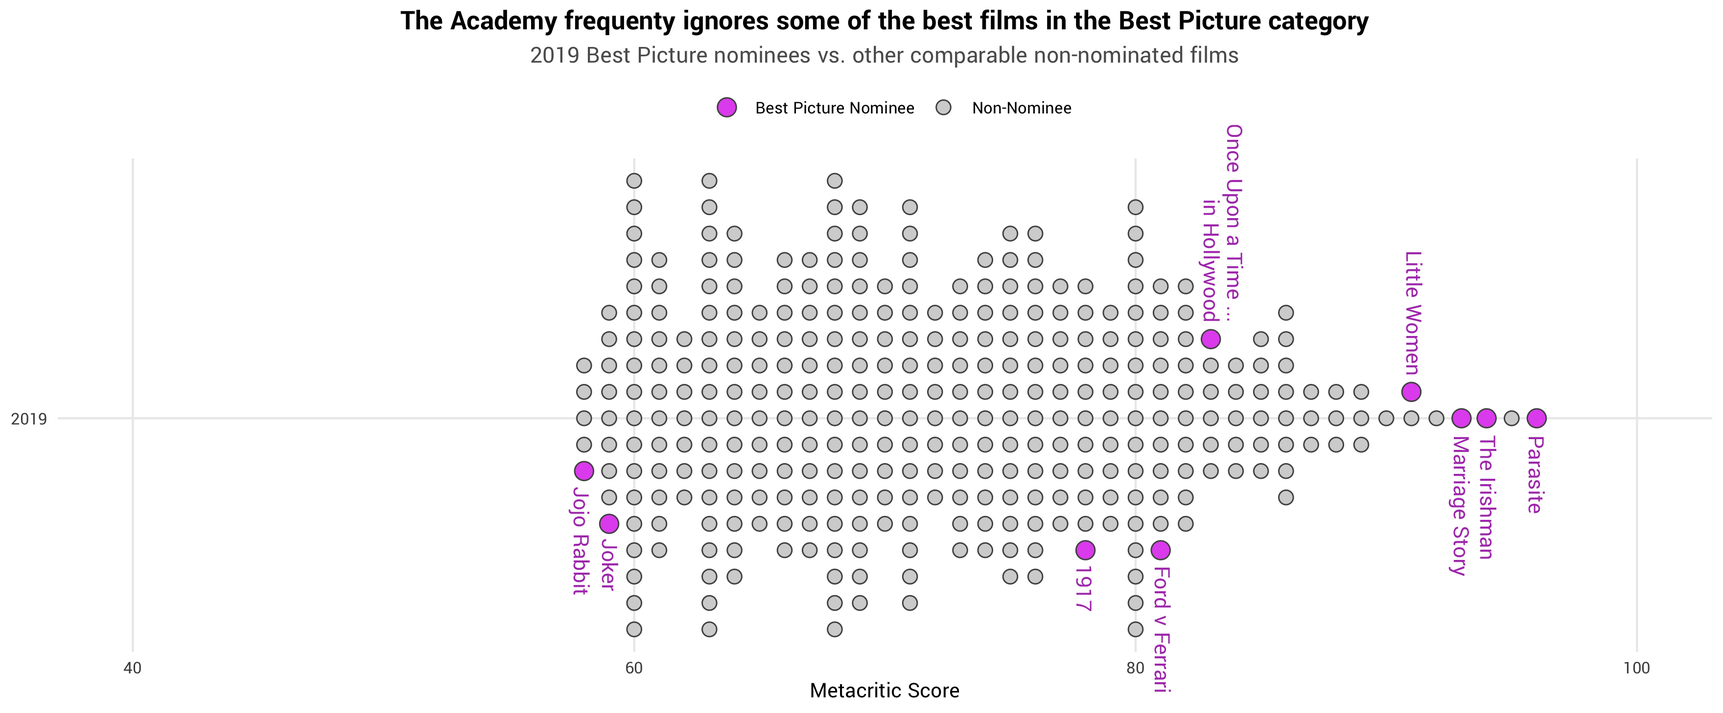
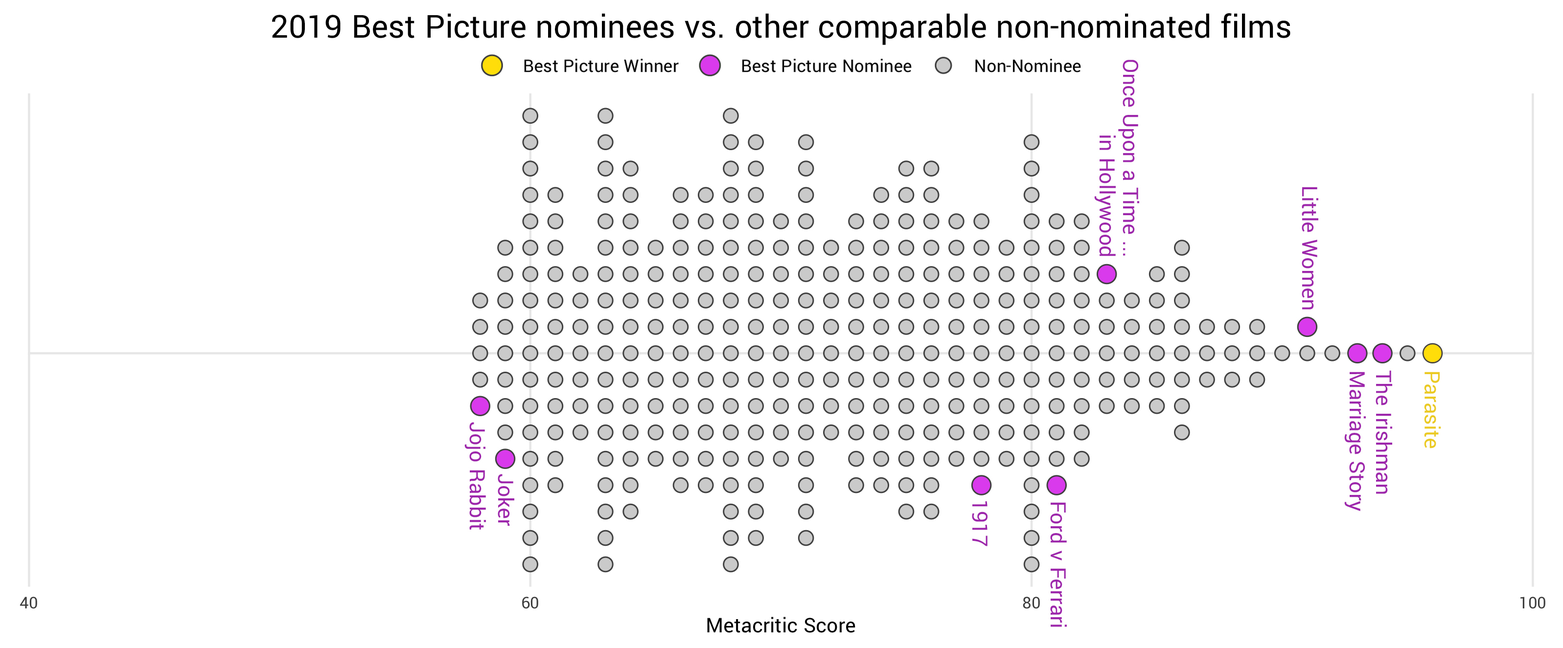
finished oscars-best-picture post

diff --git a/_site/blog/2020/02/10/oscars-best-picture.html b/_site/blog/2020/02/10/oscars-best-picture.html
@@ -146,11 +146,21 @@ MathJax.Hub.Config({
 
     <header class="post-header">
         <h1>The Best Films That Don't Win Best Picture</h1>
-        <p class="post-date">Feb 09 2020
+        <p class="post-date">Feb 10 2020
     </header>
 
     <article class="post-content">
-    <p>Lorem ipsum dolor sit amet, consectetur adipisicing elit. In dicta magnam ullam, repellat, asperiores, rem commodi tempore expedita mollitia impedit consequuntur saepe quod alias nesciunt dignissimos inventore excepturi suscipit blanditiis?</p>
+    <p>On Sunday, <em>Parasite</em> made history as the first foreign language film to win the highly coveted Best Picture award at this year’s Academy Awards. The film is a magnificent achievement and was, in my opinion, the right choice. However, in the weeks leading up to the ceremony, it was highly speculated that <em>Parasite</em> would lose to <a href="https://www.nytimes.com/2020/02/06/movies/oscars-2020-nominations-predictions.html">1917</a>, even though <a href="https://www.cnet.com/news/oscars-2020-predictions-1917-parasite-joker-once-upon-a-time-in-hollywood/">most critics believed</a> <em>Parasite</em> was the superior movie. All of this was also coming a year after <a href="https://www.vox.com/culture/2019/2/25/18239309/oscars-2019-green-book-best-picture"><em>Green Book</em> won</a> over (believed to be) superior films like <em>Roma</em>, <em>The Favourite</em>, and <em>BlackKlansman</em>. Needless to say, before <em>Parasite</em> actually won, there were low hopes that the Academy would make the best choice.</p>
+
+<div class="columns two">
+    <div class="column">
+        <p>Beyond the discussion of which Best Picture nominee was most deserving of the prize, many have pointed out that the Academy’s shortlist of films did not even include some of the best films of the year. Films like <i>Uncut Gems</i>, <i>The Farewell</i>, and <i>Dolemite Is My Name</i> were all <a href="https://ew.com/oscars/2020/01/13/oscar-nominations-2020-snubs-surprises/">notoriously snubbed this year</a>, though this has become somewhat of the norm at the Oscars.</p>
+        <p>In an attempt to quantify all of this and mentally prepare myself for what I expected was going to be a loss for <i>Parasite</i>, midway through the Awards, I <a href="https://twitter.com/ben_tanen/status/1226683722277191680">tweeted a series of charts</a> showing the Best Picture nominees from the past few years stacked up against other comparable non-nominated films. These showed how many great films the Academy had overlooked when they made their nominations and how the eventual winners compared to those overlooked films. Though never perfect, it was clear that the Academy does a better job in some years than others. In 2016, though some of the nominees were worse than other non-nominated films, <i>Moonlight</i> was considered the best of the best and won the prize to prove it. On the other hand, in 2018, nominees like <i>Bohemian Rhapsody</i> and <i>Vice</i> were far inferior to many, many other non-nominees, which was only made worse by the fact that <i>Green Book</i> was generally considered one of the worst nominees that year.</p>
+    </div>
+    <div class="column">
+        <blockquote class="twitter-tweet"><p lang="en" dir="ltr">The Academy frequently ignores some of the best films when they nominate and award films for Best Picture. Tonight they have the chance to get it right by picking one of the best films of the year. Let’s see what happens…<br /><br />More in-depth analysis coming soon.<br /><br /><a href="https://twitter.com/hashtag/Oscars?src=hash&amp;ref_src=twsrc%5Etfw">#Oscars</a> <a href="https://twitter.com/hashtag/Oscars2020?src=hash&amp;ref_src=twsrc%5Etfw">#Oscars2020</a><br /><a href="https://t.co/fLGXAcrSTZ">pic.twitter.com/fLGXAcrSTZ</a></p>&mdash; Ben Tanen (@ben_tanen) <a href="https://twitter.com/ben_tanen/status/1226683722277191680?ref_src=twsrc%5Etfw">February 10, 2020</a></blockquote> <script async="" src="https://platform.twitter.com/widgets.js" charset="utf-8"></script>
+    </div>
+</div>
 
 <p class="fig-paragraph">
     <a class="fig-link" href="/assets/img/posts/oscars-best-picture-2019.jpg" target="_blank">
@@ -158,7 +168,7 @@ MathJax.Hub.Config({
     </a>
 </p>
 
-<p>Lorem ipsum dolor sit amet, consectetur adipisicing elit. Facilis assumenda asperiores modi deserunt eaque quis saepe delectus. Asperiores, earum qui? Non deleniti ut eum dolorem quam fuga quia laboriosam magni?</p>
+<p>Now that we have the benefit of knowing who won Best Picture, this year’s Best Picture category looked a bit like a mix of 2016 and 2018 - the best film won the big prize but many great films weren’t nominated. Most people can now rest easy knowing a worthy movie won but it’s worth remembering all those great movies that did not get the recognition they deserved, this year and in years past. For those curious, see below for a full breakdown of the Best Picture nominees and other (often better) non-nominated films from the past 20 years as well as a few of my top (mildly data-driven, mildly personal) picks. See you all again in 11 months when the rage cycle starts all over again!</p>
 
 <div id="d3-obp-container">
     <div id="d3-obp-title">
@@ -168,7 +178,19 @@ MathJax.Hub.Config({
     </svg>
 </div>
 
-<p>Lorem ipsum dolor sit amet, consectetur adipisicing elit. Deserunt, ut. Reiciendis fugiat reprehenderit illum eveniet at dolorem blanditiis, nesciunt ipsam praesentium, consequuntur eligendi ducimus ex corrupti ullam incidunt sunt labore!</p>
+<h3 style="padding-left: 30px; margin-bottom: 5px; color: #77bdee;">BT's Picks: Great Films Not Nominated for Best Picture</h3>
+
+<ul>
+  <li>2019: <em>Uncut Gems</em>, <em>The Farewell</em>, <em>Dolemite Is My Name</em></li>
+  <li>2018: <em>Eighth Grade</em>, <em>Minding the Gap</em></li>
+  <li>2017: <em>The Florida Project</em></li>
+  <li>2013: <em>Fruitvale Station</em></li>
+  <li>2012: <em>Moonrise Kingdom</em></li>
+  <li>2008: <em>WALL-E</em></li>
+  <li>2007: <em>The King of Kong: A Fistful of Quarters</em></li>
+  <li>2006: <em>Children of Men</em>, <em>Borat</em></li>
+  <li>2002: <em>Spirited Away</em>, <em>Adaptation.</em></li>
+</ul>
 
 <p class="section-break">* * *</p>
 
@@ -179,7 +201,19 @@ MathJax.Hub.Config({
     <p></p>
     
     <p>
-Lorem ipsum dolor sit amet, consectetur adipisicing elit. Id, sapiente, dolores. Sunt suscipit quia, quisquam earum ipsa adipisci illo eos. Harum ex ipsum, aperiam quaerat dolorum est debitis laboriosam nulla.</p>
+Best Picture nominees were taken from <a href="http://awardsdatabase.oscars.org/">the Official Academy Awards Database</a> and then matched to their respective titles on <a href="https://www.metacritic.com/">Metacritic</a>. All films that were ranked higher than the lowest scoring Best Picture nominee (based on <a href="https://www.metacritic.com/browse/movies/score/metascore/year/filtered?year_selected=2019&amp;sort=desc">Metacritic's Best Movies By Year list</a>) were included.</p>
+    
+    <p>
+</p>
+    
+    <p>
+Some films on Metacritic's list likely did not qualify for Best Picture nominations (e.g., <i>Apocalypse Now: Final Cut</i>, an extended version of the 1979 film, was released in 2019 but likely would not qualify). However, the Academy's qualifications have changed over time and <a href="https://www.liveabout.com/qualifying-for-best-picture-oscar-4071766">generally require information submitted by studios directly to the Academy</a>, which can be difficult to find online. Therefore, for the sake of completeness, all films listed on Metacritic were included.</p>
+    
+    <p>
+</p>
+    
+    <p>
+The film's year indicates the year of release, not the year of the Oscars ceremony associated with the film.</p>
     
     <p>
 </p>
@@ -222,12 +256,16 @@ line.y-axis-line {
     stroke: none;
 }
 
+text.legend {
+    font-size: 12px;
+}
+
 text.stat-line1, text.stat-line2 tspan {
     font-size: 12px;
 }
 
 circle.film {
-    stroke: #515151;
+    stroke: #C3C3C3;
     stroke-width: 1.5px;
     fill: #D4D4D4;
     cursor: pointer;
@@ -235,16 +273,18 @@ circle.film {
 
 @media (max-width: 840px) {
     circle.film {
-        stroke-width: 1px;
+        stroke-width: 0.5px;
     }
 }
 
 circle.film.oscars-nom {
-    fill: #E35DEF; 
+    fill: #E35DEF;
+    stroke: #515151;
 }
 
 circle.film.oscars-win {
     fill: #FFDD0A;
+    stroke: #515151;
 }
 </style>
 
@@ -256,7 +296,7 @@ circle.film.oscars-win {
 
 let obp_svg = d3.select("#d3-obp");
 
-let margin = {top: 150, right: 105, bottom: 70, left: 40},
+let margin = {top: 180, right: 105, bottom: 65, left: 40},
     width  = $("#d3-obp").width() - margin.left - margin.right,
     height = $("#d3-obp").height() - margin.top - margin.bottom,
     is_mobile = (width >= 470 ? false : true);
@@ -298,7 +338,9 @@ function render_axes() {
         .attr("y1", (d) => margin.top + y(d) + 0.5)
         .attr("x2", margin.left + width)
         .attr("y2", (d) => margin.top + y(d) + 0.5);
+}
 
+function render_statlines() {
     let sl1 = obp_svg.selectAll("text.stat-line1")
         .data(d3.range(y.domain()[0], y.domain()[1] + 1)).enter()
         .append("text")
@@ -328,10 +370,61 @@ function render_axes() {
         .attr("dy", 12);
 }
 
+function render_legend() {
+
+    let mob = width < 250,
+        legend_width = mob ? 221 : 337;
+
+    let legend = obp_svg.append("g")
+        .classed("legend", true)
+        .attr("transform", `translate(${margin.left + (width - legend_width) / 2}, 10)`);
+
+    legend.append("circle")
+        .classed("film", true)
+        .classed("oscars-win", true)
+        .classed("legend", true)
+        .attr("cx", 10)
+        .attr("cy", 10)
+        .attr("r", 4);
+
+    legend.append("text")
+        .classed("legend", true)
+        .attr("x", 20)
+        .attr("y", 14)
+        .text((mob ? "" : "Best Picture ") + "Winner");
+
+    legend.append("circle")
+        .classed("film", true)
+        .classed("oscars-nom", true)
+        .classed("legend", true)
+        .attr("cx", (mob ? 72 : 135))
+        .attr("cy", 10)
+        .attr("r", 4);
+
+    legend.append("text")
+        .classed("legend", true)
+        .attr("x", (mob ? 82 : 145))
+        .attr("y", 14)
+        .text((mob ? "" : "Best Picture ") + "Nominee");
+
+    legend.append("circle")
+        .classed("film", true)
+        .classed("legend", true)
+        .attr("cx", (mob ? 144 : 270))
+        .attr("cy", 10)
+        .attr("r", 4);
+
+    legend.append("text")
+        .classed("legend", true)
+        .attr("x", (mob ? 154 : 280))
+        .attr("y", 14)
+        .text("Non-Nominee");
+}
+
 function render_points() {
 
     // create circles
-    obp_svg.selectAll("circle.film")
+    obp_svg.selectAll("circle.film:not(.legend)")
         .data(data).enter()
         .append("circle")
         .classed("film", true)
@@ -366,7 +459,7 @@ function y_jitter(r) {
 function resize() {
 
     // delete existing elements
-    obp_svg.selectAll("#x-axis, #y-axis, text.axis-label, line.y-axis-line, text.stat-line1, text.stat-line2, circle.film").remove();
+    obp_svg.selectAll("#x-axis, #y-axis, text.axis-label, line.y-axis-line, g.legend, text.stat-line1, text.stat-line2, circle.film").remove();
 
     // update width properties and scales
     width = $("#d3-obp").width() - margin.left - margin.right;
@@ -374,6 +467,8 @@ function resize() {
 
     // rerender
     render_axes();
+    render_statlines();
+    render_legend();
     render_points();
 }
 
@@ -402,8 +497,10 @@ d3.csv("/assets/data/metacritic-topmovies-byyear.csv", (d) => {
     x.domain(d3.extent(data, (d) => d.metacritic_score)).nice();
     y.domain(d3.extent(data, (d) => d.year));
 
-    // draw axes and initla points
+    // draw axes and initial points
     render_axes();
+    render_statlines();
+    render_legend();
     render_points();
 });
 

diff --git a/_site/index.html b/_site/index.html
@@ -79,7 +79,7 @@
 
 <p>I’m Ben Tanen. I have a passion for thinking about, working with, and visualizing data of all forms, and I aspire to use data to tell interesting stories. I live in Boston, MA and I've worked at Analysis Group since graduating from Tufts University in 2017.</p>
 
-<p>Over the years, I've worked on projects dealing with <a href="/projects/how-bills-die/" target="_new">our broken legislative process</a>, <a href="/projects/oscars-popular-film/" target="_new">popular movies at the Oscars</a>, <a href="/blog/2018/02/06/fantasy-olympics.html" target="_new">the Winter Olympics</a>, <a href="/blog/2019/06/23/most-font.html" target="_new">font design</a>, <a href="/blog/2017/03/15/ASL-LEX.html" target="_new">American Sign Language</a>, <a href="http://link.ben-tanen.com/adaptive-huffman/" target="_new">data compression algorithms</a>, and <a href="/blog/2020/01/08/ibm-watson-ff.html" target="_new">fantasy football</a>. Recently, I wrote about <a href="/blog/2020/02/09/oscars-best-picture.html">how many great films can be ignored by the Academy of Motion Picture Arts and Sciences</a>. You can find more of my work <a href="/blog/all/">here</a>.</p>
+<p>Over the years, I've worked on projects dealing with <a href="/projects/how-bills-die/" target="_new">our broken legislative process</a>, <a href="/projects/oscars-popular-film/" target="_new">popular movies at the Oscars</a>, <a href="/blog/2018/02/06/fantasy-olympics.html" target="_new">the Winter Olympics</a>, <a href="/blog/2019/06/23/most-font.html" target="_new">font design</a>, <a href="/blog/2017/03/15/ASL-LEX.html" target="_new">American Sign Language</a>, <a href="http://link.ben-tanen.com/adaptive-huffman/" target="_new">data compression algorithms</a>, and <a href="/blog/2020/01/08/ibm-watson-ff.html" target="_new">fantasy football</a>. Recently, I wrote about <a href="/blog/2020/02/10/oscars-best-picture.html">how many great films are ignored by the Academy Awards</a>. You can find more of my work <a href="/blog/all/">here</a>.</p>
 
 <p>I'm always looking for great music to add to <a href="http://link.ben-tanen.com/vinyl/">my collection</a> and I love chatting about filmmaking, law, and politics. While at Tufts, I spun a weekly <a href="http://link.ben-tanen.com/papaT/">radio show</a> as Papa T on Tufts' WMFO and I played club hockey. On occasion, I take <a href="http://link.ben-tanen.com/photo/">pictures</a> with my camera. <span id="currently-text">I'm currently listening to <a class="currently hidden" id="currently-music-name" target="_new">...............</a> from <span class="currently" id="currently-music-artist">...............</span> and I'm reading <a class="currently hidden" id="currently-book-name" target="_new">...............</a> by <span class="currently hidden" id="currently-book-author">...............</span>.</span></p>
 

diff --git a/_site/blog/all/index.html b/_site/blog/all/index.html
@@ -157,8 +157,8 @@ MathJax.Hub.Config({
     <li>
         <div class='index-thumbnail' style='background-image: url("/assets/img/post-thumbnails/oscars-best-picture.png");'>
         </div>
-        <p class='index-date'>Feb 09 2020</p>
-        <p class='index-title'><a href='/blog/2020/02/09/oscars-best-picture.html'>The Best Films That Don't Win Best Picture</a></p>
+        <p class='index-date'>Feb 10 2020</p>
+        <p class='index-title'><a href='/blog/2020/02/10/oscars-best-picture.html'>The Best Films That Don't Win Best Picture</a></p>
     </li>
 
 

diff --git a/_site/projects/data/index.html b/_site/projects/data/index.html
@@ -153,8 +153,8 @@ MathJax.Hub.Config({
     <li>
         <div class='index-thumbnail' style='background-image: url("/assets/img/post-thumbnails/oscars-best-picture.png");'>
         </div>
-        <p class='index-date'>Feb 09 2020</p>
-        <p class='index-title'><a href='/blog/2020/02/09/oscars-best-picture.html'>The Best Films That Don't Win Best Picture</a></p>
+        <p class='index-date'>Feb 10 2020</p>
+        <p class='index-title'><a href='/blog/2020/02/10/oscars-best-picture.html'>The Best Films That Don't Win Best Picture</a></p>
     </li>
 
 

diff --git a/_site/blog/2020/01/08/ibm-watson-ff.html b/_site/blog/2020/01/08/ibm-watson-ff.html
@@ -444,7 +444,7 @@ $('.bucket-button').click(function() {
 
     <div class='pagination'>
         
-        <p id='pagination-previous'><a href='/blog/2020/02/09/oscars-best-picture.html'>&#8592; Newer Post</a></p>
+        <p id='pagination-previous'><a href='/blog/2020/02/10/oscars-best-picture.html'>&#8592; Newer Post</a></p>
         
 
         <p id="pagination-all"><a href="/blog/all/">View All Posts</a></p>

diff --git a/_drafts/2020-02-10-oscars-best-picture.md b/_drafts/2020-02-10-oscars-best-picture.md
@@ -1,29 +1,38 @@
 ---
 layout: post
 title:  "The Best Films That Don't Win Best Picture"
-date:   2020-02-09 15:05:41
+date:   2020-02-10 15:05:41
 categories: project data visualization movies oscars
 show-on-landing: true
 thumbnail: /assets/img/post-thumbnails/oscars-best-picture.png
-landing-description: how many great films can be ignored by the Academy of Motion Picture Arts and Sciences
+landing-description: how many great films are ignored by the Academy Awards
 ---
 
-This past Sunday, [*Parasite*](https://www.imdb.com/title/tt6751668/) made history as the first foreign language film to win the highly coveted Best Picture award at this year’s Academy Awards. The film is a magnificent achievement and was, in my opinion, the right choice. However, in the weeks leading up to the ceremony, it was highly speculated that *Parasite* would lose to [1917](https://www.nytimes.com/2020/02/06/movies/oscars-2020-nominations-predictions.html), even though [most critics believed](https://www.cnet.com/news/oscars-2020-predictions-1917-parasite-joker-once-upon-a-time-in-hollywood/) *Parasite* was the superior movie. All of this was also coming a year after [*Green Book* won](https://www.vox.com/culture/2019/2/25/18239309/oscars-2019-green-book-best-picture) over (believed to be) superior films like *Roma*, *The Favourite*, and *BlackKlansman*. Needless to say, before *Parasite* actually won, there were low hopes that the Academy would make the best choice.
-
-Beyond the discussion of which Best Picture nominee was most deserving of the prize, many have pointed out that the Academy’s shortlist of films did not even include some of the best films of the year. Films like *Uncut Gems*, *The Farewell*, and *Dolemite Is My Name* were all [notoriously snubbed this year](https://ew.com/oscars/2020/01/13/oscar-nominations-2020-snubs-surprises/), though this has become somewhat of the norm at the Oscars.
+On Sunday, *Parasite* made history as the first foreign language film to win the highly coveted Best Picture award at this year’s Academy Awards. The film is a magnificent achievement and was, in my opinion, the right choice. However, in the weeks leading up to the ceremony, it was highly speculated that *Parasite* would lose to [1917](https://www.nytimes.com/2020/02/06/movies/oscars-2020-nominations-predictions.html), even though [most critics believed](https://www.cnet.com/news/oscars-2020-predictions-1917-parasite-joker-once-upon-a-time-in-hollywood/) *Parasite* was the superior movie. All of this was also coming a year after [*Green Book* won](https://www.vox.com/culture/2019/2/25/18239309/oscars-2019-green-book-best-picture) over (believed to be) superior films like *Roma*, *The Favourite*, and *BlackKlansman*. Needless to say, before *Parasite* actually won, there were low hopes that the Academy would make the best choice.
 
 <div class='columns two'>
     <div class='column'>
-        <p>In an attempt to quantify all of this and mentally prepare myself for what I expected was going to be a loss for <i>Parasite</i>, I <a href="https://twitter.com/ben_tanen/status/1226683722277191680">tweeted a series of charts</a> showing the Best Picture nominees from the past few years stacked up against other comparable non-nominated films. These showed how many great films the Academy overlooked when they made their nominations and how the eventual winner compared to those overlooked films as well as the other nominees. It was clear that the Academy does a better job in some years than others. In 2016, though some of the nominees were worse than a few other non-nominated films, <i>Moonlight</i>, which won that year, was considered the best of the best. On the other hand, in 2018, nominees like <i>Bohemian Rhapsody</i> and <i>Vice</i> were far inferior to many, many other non-nominees, which was only made worse by the fact that <i>Green Book</i> was generally considered one of the worst nominees that year.</p>
+        <p>Beyond the discussion of which Best Picture nominee was most deserving of the prize, many have pointed out that the Academy’s shortlist of films did not even include some of the best films of the year. Films like <i>Uncut Gems</i>, <i>The Farewell</i>, and <i>Dolemite Is My Name</i> were all <a href="https://ew.com/oscars/2020/01/13/oscar-nominations-2020-snubs-surprises/">notoriously snubbed this year</a>, though this has become somewhat of the norm at the Oscars.</p>
+        <p>In an attempt to quantify all of this and mentally prepare myself for what I expected was going to be a loss for <i>Parasite</i>, midway through the Awards, I <a href="https://twitter.com/ben_tanen/status/1226683722277191680">tweeted a series of charts</a> showing the Best Picture nominees from the past few years stacked up against other comparable non-nominated films. These showed how many great films the Academy had overlooked when they made their nominations and how the eventual winners compared to those overlooked films. Though never perfect, it was clear that the Academy does a better job in some years than others. In 2016, though some of the nominees were worse than other non-nominated films, <i>Moonlight</i> was considered the best of the best and won the prize to prove it. On the other hand, in 2018, nominees like <i>Bohemian Rhapsody</i> and <i>Vice</i> were far inferior to many, many other non-nominees, which was only made worse by the fact that <i>Green Book</i> was generally considered one of the worst nominees that year.</p>
     </div>
     <div class='column'>
         <blockquote class="twitter-tweet"><p lang="en" dir="ltr">The Academy frequently ignores some of the best films when they nominate and award films for Best Picture. Tonight they have the chance to get it right by picking one of the best films of the year. Let’s see what happens…<br><br>More in-depth analysis coming soon.<br><br><a href="https://twitter.com/hashtag/Oscars?src=hash&amp;ref_src=twsrc%5Etfw">#Oscars</a> <a href="https://twitter.com/hashtag/Oscars2020?src=hash&amp;ref_src=twsrc%5Etfw">#Oscars2020</a><br><a href="https://t.co/fLGXAcrSTZ">pic.twitter.com/fLGXAcrSTZ</a></p>&mdash; Ben Tanen (@ben_tanen) <a href="https://twitter.com/ben_tanen/status/1226683722277191680?ref_src=twsrc%5Etfw">February 10, 2020</a></blockquote> <script async src="https://platform.twitter.com/widgets.js" charset="utf-8"></script>
     </div>
 </div>
 
-<!-- {% include figure.html autolink="yes" src="/assets/img/posts/oscars-best-picture-2019.jpg" alt="A visualization of some of the best movies of 2019, colored based on if they were a Best Picture nominee" %} -->
+{% include figure.html autolink="yes" src="/assets/img/posts/oscars-best-picture-2019.jpg" alt="A visualization of some of the best movies of 2019, colored based on if they were a Best Picture nominee" %}
 
-When all was said and done, this year’s Best Picture category looked a bit like a mix of 2016 and 2018 (the best film won the big prize but many great films weren’t nominated). Most people can now rest easy knowing a worthy movie won but it's worth remembering all those great movies that did not get the recognition they deserved, this year and in years past. See below for a full breakdown of the Best Picture nominees and other (often better) non-nominated films from the past 20 years as well as a few of my top (mildly data-driven, mildly personal) picks. See you all again in 11 months when the rage cycle starts all over again!
+Now that we have the benefit of knowing who won Best Picture, this year’s Best Picture category looked a bit like a mix of 2016 and 2018 - the best film won the big prize but many great films weren’t nominated. Most people can now rest easy knowing a worthy movie won but it's worth remembering all those great movies that did not get the recognition they deserved, this year and in years past. For those curious, see below for a full breakdown of the Best Picture nominees and other (often better) non-nominated films from the past 20 years as well as a few of my top (mildly data-driven, mildly personal) picks. See you all again in 11 months when the rage cycle starts all over again!
+
+<div id="d3-obp-container">
+    <div id="d3-obp-title">
+        <h3>Best Picture nominees vs. other comparable non-nominated films, 2000 - 2019</h3>
+    </div>
+    <svg id="d3-obp">
+    </svg>
+</div>
+
+<h3 style='padding-left: 30px; margin-bottom: 5px; color: #77bdee;'>BT's Picks: Great Films Not Nominated for Best Picture</h3>
 
 - 2019: *Uncut Gems*, *The Farewell*, *Dolemite Is My Name*
 - 2018: *Eighth Grade*, *Minding the Gap*
@@ -34,14 +43,6 @@ When all was said and done, this year’s Best Picture category looked a bit lik
 - 2007: *The King of Kong: A Fistful of Quarters*
 - 2006: *Children of Men*, *Borat*
 - 2002: *Spirited Away*, *Adaptation.*
-
-<div id="d3-obp-container">
-    <div id="d3-obp-title">
-        <h3>Best Picture nominees vs. other comparable non-nominated films, 2000 - 2019</h3>
-    </div>
-    <svg id="d3-obp">
-    </svg>
-</div>
 
 {% capture methodology-note %}
 Best Picture nominees were taken from <a href="http://awardsdatabase.oscars.org/">the Official Academy Awards Database</a> and then matched to their respective titles on <a href="https://www.metacritic.com/">Metacritic</a>. All films that were ranked higher than the lowest scoring Best Picture nominee (based on <a href="https://www.metacritic.com/browse/movies/score/metascore/year/filtered?year_selected=2019&sort=desc">Metacritic's Best Movies By Year list</a>) were included.
@@ -97,7 +98,7 @@ text.stat-line1, text.stat-line2 tspan {
 }
 
 circle.film {
-    stroke: #515151;
+    stroke: #C3C3C3;
     stroke-width: 1.5px;
     fill: #D4D4D4;
     cursor: pointer;
@@ -105,16 +106,18 @@ circle.film {
 
 @media (max-width: 840px) {
     circle.film {
-        stroke-width: 1px;
+        stroke-width: 0.5px;
     }
 }
 
 circle.film.oscars-nom {
-    fill: #E35DEF; 
+    fill: #E35DEF;
+    stroke: #515151;
 }
 
 circle.film.oscars-win {
     fill: #FFDD0A;
+    stroke: #515151;
 }
 </style>
 
@@ -126,7 +129,7 @@ circle.film.oscars-win {
 
 let obp_svg = d3.select("#d3-obp");
 
-let margin = {top: 180, right: 105, bottom: 90, left: 40},
+let margin = {top: 180, right: 105, bottom: 65, left: 40},
     width  = $("#d3-obp").width() - margin.left - margin.right,
     height = $("#d3-obp").height() - margin.top - margin.bottom,
     is_mobile = (width >= 470 ? false : true);
